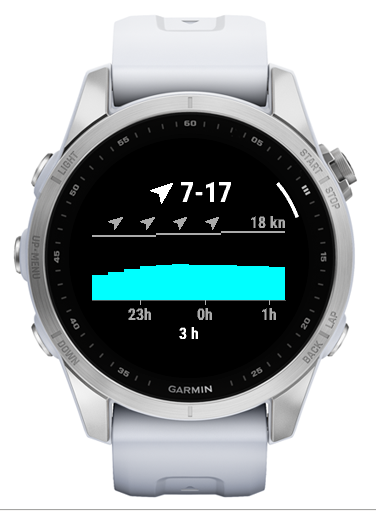
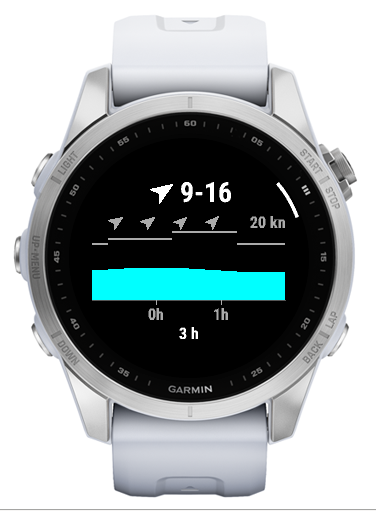
Show the next 3, 24 and 72 hours from now on the forecast pages
The stored forecasts start at the time of their request, so without a
connection the pages showed hours that had passed, and the Today page
was cut at midnight, showing only minutes late in the evening. Each page
now starts at the sample now falls in and shows a fixed span; the middle
page shows the next 24 hours instead of the rest of today. A forecast
with nothing after now shows no chart.

diff --git a/scripts/simulator_screenshots.py b/scripts/simulator_screenshots.py
@@ -1,4 +1,4 @@
-"""Takes the README screenshots Glance.png, View.png, ViewToday.png,
+"""Takes the README screenshots Glance.png, View.png, ViewDay.png,
 ViewDays.png and Menu.png in the simulator.
 
 Runs inside the Connect IQ Docker image (see scripts/screenshots.sh), which
@@ -66,7 +66,7 @@ def main(device, output_dir):
     press_key(simulator_config, "esc")
     time.sleep(MENU_OPEN_SECONDS + PAGE_INDICATOR_SECONDS)
     save("View.png")
-    for page in ("ViewToday.png", "ViewDays.png"):
+    for page in ("ViewDay.png", "ViewDays.png"):
         press_key(simulator_config, "down")
         time.sleep(PAGE_SWITCH_SECONDS)
         save(page)

diff --git a/README.md b/README.md
@@ -4,14 +4,14 @@ WindWatch is a Garmin glance app that shows the wind at your favourite spot or w
 
 <img src="Glance.png" width="200"/> <img src="Menu.png" width="200"/>
 
-<img src="View.png" width="200"/> <img src="ViewToday.png" width="200"/> <img src="ViewDays.png" width="200"/>
+<img src="View.png" width="200"/> <img src="ViewDay.png" width="200"/> <img src="ViewDays.png" width="200"/>
 
 ## Features
 
 - **Glance:** the current wind as `<mean>-<gust> kn` with an arrow pointing where the wind blows, and a Beaufort color bar with the wind on it.
 - **View:** the current wind and a forecast chart.
 - **Favourite or GPS position:** the menu switches between the wind at your favourite spot and the wind where you are.
-- **Three forecast pages**, switched with DOWN and UP or by swiping: the next 3 hours in quarter hours, the rest of today and the next 3 days in hours. The title of the page shows right of the chart.
+- **Three forecast pages**, switched with DOWN and UP or by swiping: the next 3 hours in quarter hours, the next 24 and the next 72 hours in hours. Each page starts at the current sample, so a forecast stored without a connection never shows past hours. The title of the page shows right of the chart.
 - **Forecast chart:** bars colored by wind speed, light gray marks for the gusts and arrows above the bars for the wind direction.
 - **Knots or km/h:** knots by default, km/h can be chosen in the app settings in Garmin Connect or Garmin Express.
 - **No API key** needed.
@@ -48,7 +48,7 @@ The glance asks for the current wind only:
 https://api.open-meteo.com/v1/forecast?latitude=46.29&longitude=6.17&current=wind_speed_10m,wind_gusts_10m,wind_direction_10m&timeformat=unixtime
 ```
 
-The view adds the hourly forecast with `&hourly=wind_speed_10m,wind_gusts_10m,wind_direction_10m&forecast_hours=72` and the quarter hourly one with `&minutely_15=...&forecast_minutely_15=12`, both starting now. The "today" page is cut from the hourly forecast.
+The view adds the hourly forecast with `&hourly=wind_speed_10m,wind_gusts_10m,wind_direction_10m&forecast_hours=72` and the quarter hourly one with `&minutely_15=...&forecast_minutely_15=12`, both starting now. The 24 hour page is cut from the hourly forecast.
 Positions are rounded to 2 decimals, about 1 km, which is finer than the weather models. The data is stored per rounded position, so switching between favourite and GPS never shows the wind of the other place, and GPS jitter asks for nothing new.
 Each kind of request is sent at most every 15 minutes per position, as often as Open-Meteo updates the current wind. Only a new position or Reload in the menu ask earlier.
 The app always requests km/h and converts for display, so a changed unit shows without a new request.
